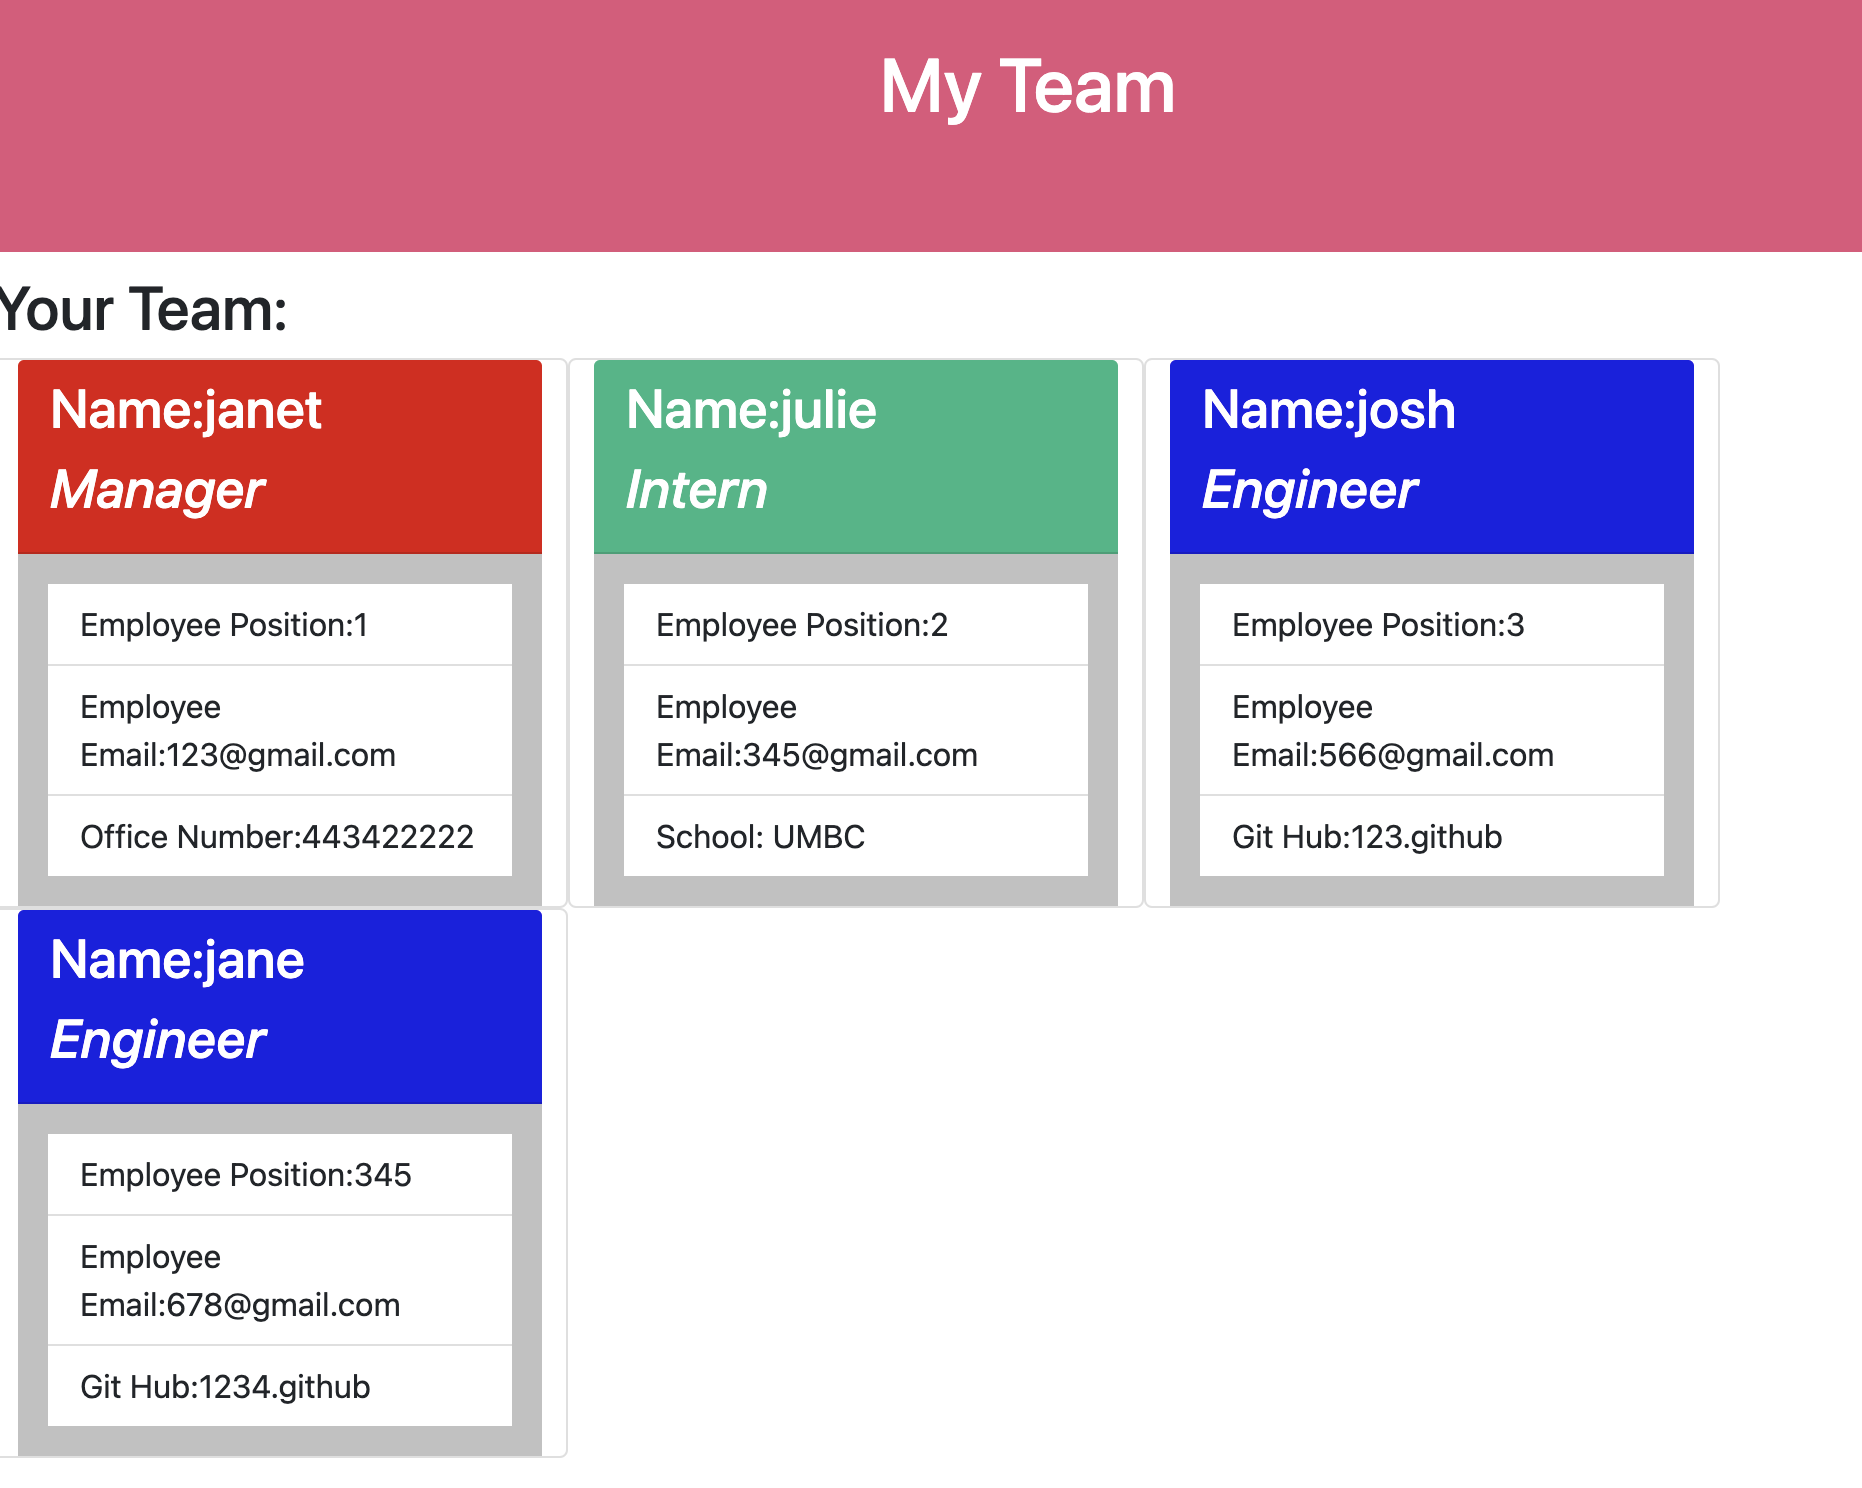
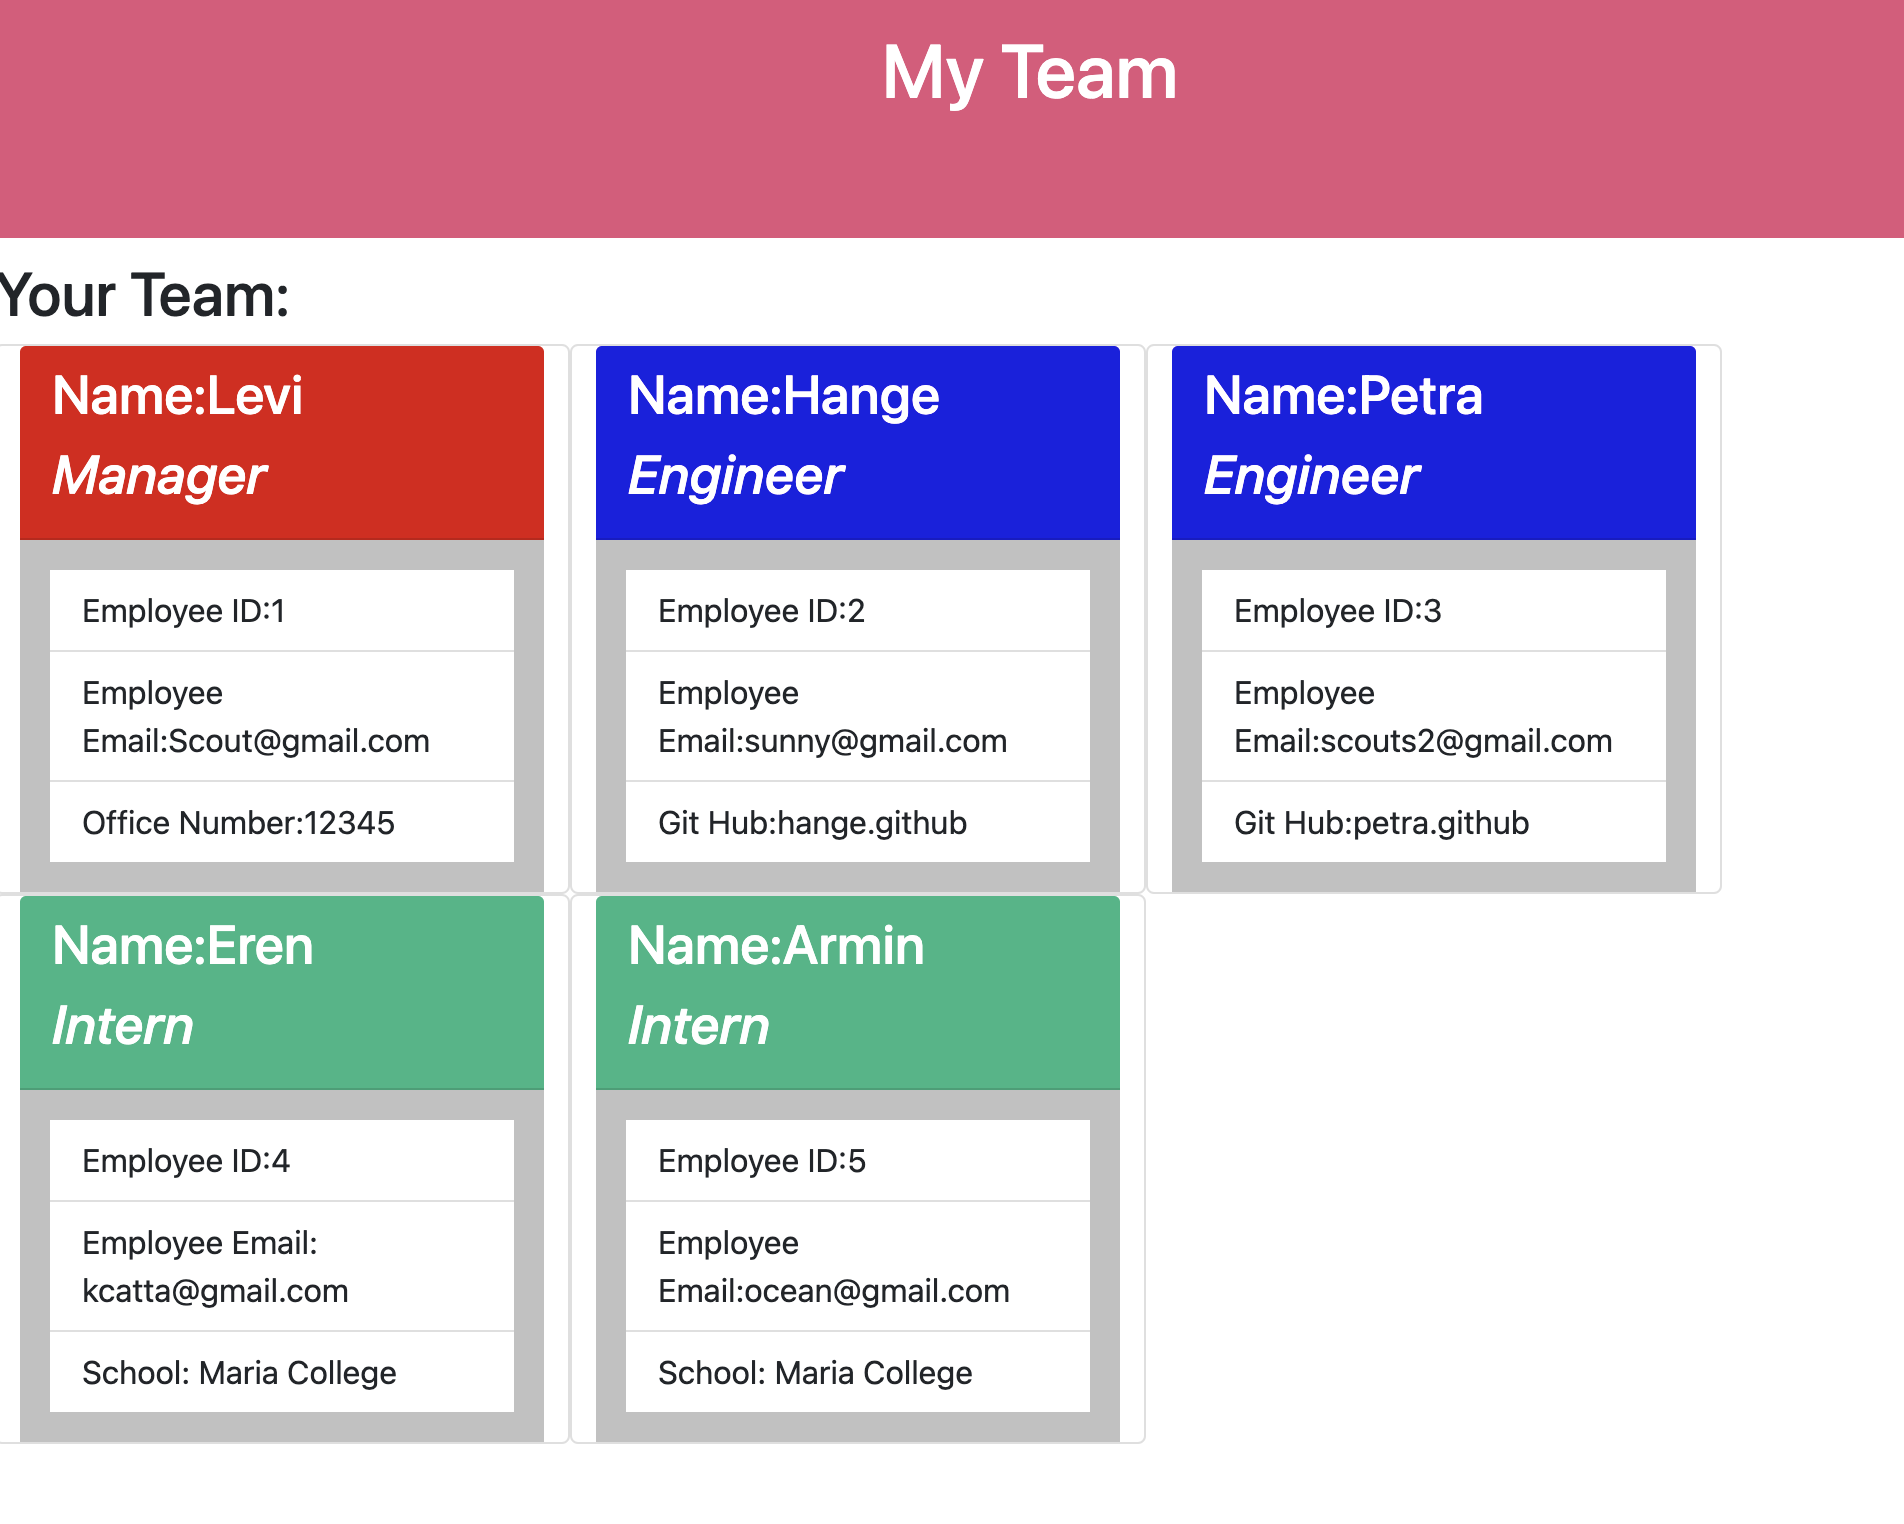
fixed readme

diff --git a/dist/index.html b/dist/index.html
@@ -21,50 +21,62 @@
         <div class ="row" id ="info">
         <div class="card" style="width: 18rem;" >
     <div class="card-header" id=Manager>
-    <h3>Name:janet</h3>
+    <h3>Name:Levi</h3>
     <i class="fas fa-coffee"><h3>Manager</h3></i>
     </div>
     <div class = "space">
         <ul class="list-group list-group-flush">
-            <li class="list-group-item">Employee Position:1</li>
-            <li class="list-group-item">Employee Email:123@gmail.com</li>
-            <li class="list-group-item">Office Number:443422222</li>
+            <li class="list-group-item">Employee ID:1</li>
+            <li class="list-group-item">Employee Email:Scout@gmail.com</li>
+            <li class="list-group-item">Office Number:12345</li>
+        </ul>
+    </div>
+</div><div class="card" style="width: 18rem;" >
+    <div class="card-header" id=Engineer>
+    <h3>Name:Hange</h3>
+    <i class="fas fa-coffee"><h3>Engineer</h3></i>
+    </div>
+    <div class = "space">
+        <ul class="list-group list-group-flush">
+            <li class="list-group-item">Employee ID:2</li>
+            <li class="list-group-item">Employee Email:sunny@gmail.com</li>
+            <li class="list-group-item">Git Hub:hange.github</li>
+        </ul>
+    </div>
+</div><div class="card" style="width: 18rem;" >
+    <div class="card-header" id=Engineer>
+    <h3>Name:Petra</h3>
+    <i class="fas fa-coffee"><h3>Engineer</h3></i>
+    </div>
+    <div class = "space">
+        <ul class="list-group list-group-flush">
+            <li class="list-group-item">Employee ID:3</li>
+            <li class="list-group-item">Employee Email:scouts2@gmail.com</li>
+            <li class="list-group-item">Git Hub:petra.github</li>
         </ul>
     </div>
 </div><div class="card" style="width: 18rem;" >
     <div class="card-header" id=Intern>
-    <h3>Name:julie</h3>
+    <h3>Name:Eren</h3>
     <i class="fas fa-coffee"><h3>Intern</h3></i>
     </div>
     <div class = "space">
         <ul class="list-group list-group-flush">
-            <li class="list-group-item">Employee Position:2</li>
-            <li class="list-group-item">Employee Email:345@gmail.com</li>
-            <li class="list-group-item">School: UMBC</li>
+            <li class="list-group-item">Employee ID:4</li>
+            <li class="list-group-item">Employee Email: kcatta@gmail.com</li>
+            <li class="list-group-item">School: Maria College</li>
         </ul>
     </div>
 </div><div class="card" style="width: 18rem;" >
-    <div class="card-header" id=Engineer>
-    <h3>Name:josh</h3>
-    <i class="fas fa-coffee"><h3>Engineer</h3></i>
+    <div class="card-header" id=Intern>
+    <h3>Name:Armin</h3>
+    <i class="fas fa-coffee"><h3>Intern</h3></i>
     </div>
     <div class = "space">
         <ul class="list-group list-group-flush">
-            <li class="list-group-item">Employee Position:3</li>
-            <li class="list-group-item">Employee Email:566@gmail.com</li>
-            <li class="list-group-item">Git Hub:123.github</li>
-        </ul>
-    </div>
-</div><div class="card" style="width: 18rem;" >
-    <div class="card-header" id=Engineer>
-    <h3>Name:jane</h3>
-    <i class="fas fa-coffee"><h3>Engineer</h3></i>
-    </div>
-    <div class = "space">
-        <ul class="list-group list-group-flush">
-            <li class="list-group-item">Employee Position:345</li>
-            <li class="list-group-item">Employee Email:678@gmail.com</li>
-            <li class="list-group-item">Git Hub:1234.github</li>
+            <li class="list-group-item">Employee ID:5</li>
+            <li class="list-group-item">Employee Email:ocean@gmail.com</li>
+            <li class="list-group-item">School: Maria College</li>
         </ul>
     </div>
 </div>

diff --git a/src/displayPage.js b/src/displayPage.js
@@ -35,7 +35,7 @@ const generateManager =({employeeName,employeeID,rank,employeeEmail,officeNumber
     </div>
     <div class = "space">
         <ul class="list-group list-group-flush">
-            <li class="list-group-item">Employee Position:${employeeID}</li>
+            <li class="list-group-item">Employee ID:${employeeID}</li>
             <li class="list-group-item">Employee Email:${employeeEmail}</li>
             <li class="list-group-item">Office Number:${officeNumber}</li>
         </ul>
@@ -51,7 +51,7 @@ const generateEngineer =({employeeName,employeeID,rank,employeeEmail,github}) =>
     </div>
     <div class = "space">
         <ul class="list-group list-group-flush">
-            <li class="list-group-item">Employee Position:${employeeID}</li>
+            <li class="list-group-item">Employee ID:${employeeID}</li>
             <li class="list-group-item">Employee Email:${employeeEmail}</li>
             <li class="list-group-item">Git Hub:${github}</li>
         </ul>
@@ -67,7 +67,7 @@ const generateIntern=({employeeName,employeeID,rank,employeeEmail,school}) =>
     </div>
     <div class = "space">
         <ul class="list-group list-group-flush">
-            <li class="list-group-item">Employee Position:${employeeID}</li>
+            <li class="list-group-item">Employee ID:${employeeID}</li>
             <li class="list-group-item">Employee Email:${employeeEmail}</li>
             <li class="list-group-item">School: ${school}</li>
         </ul>

diff --git a/README.md b/README.md
@@ -14,8 +14,8 @@
 * These answer will then be converted into a HTML page for easy viewing.
 
 # ProjectInstallationInstructions
-* To Utilize the Application simply fork the repository and then you can use the app 
-* Usage Video : 
+* To Utilize the Application simply fork the repository and then you can use the app,assure a npm install is preformed 
+* Usage Video : https://drive.google.com/file/d/1eiyAfl_d98THhTu6PfnNK_cYWlAWPhMy/view?usp=sharing
 
 # ProjectUsage
 * To create a HTML page base on User input.
